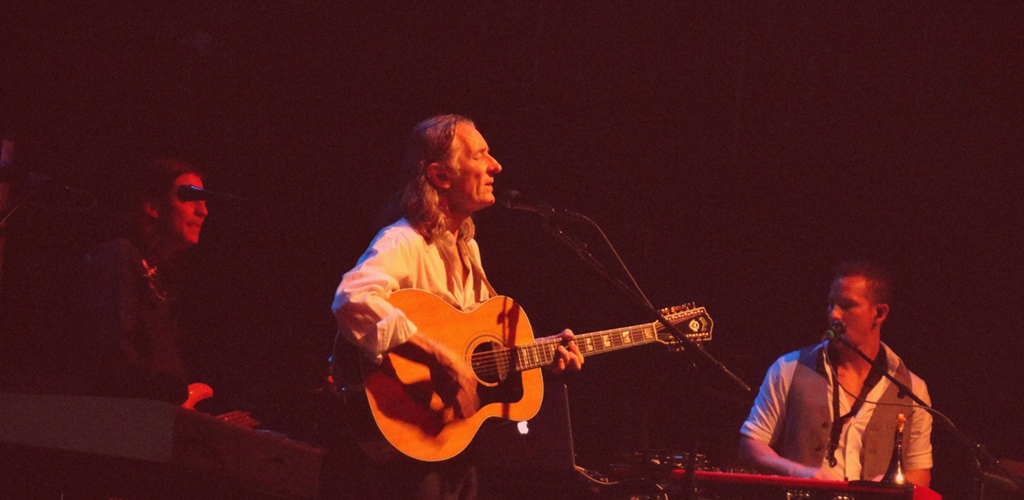
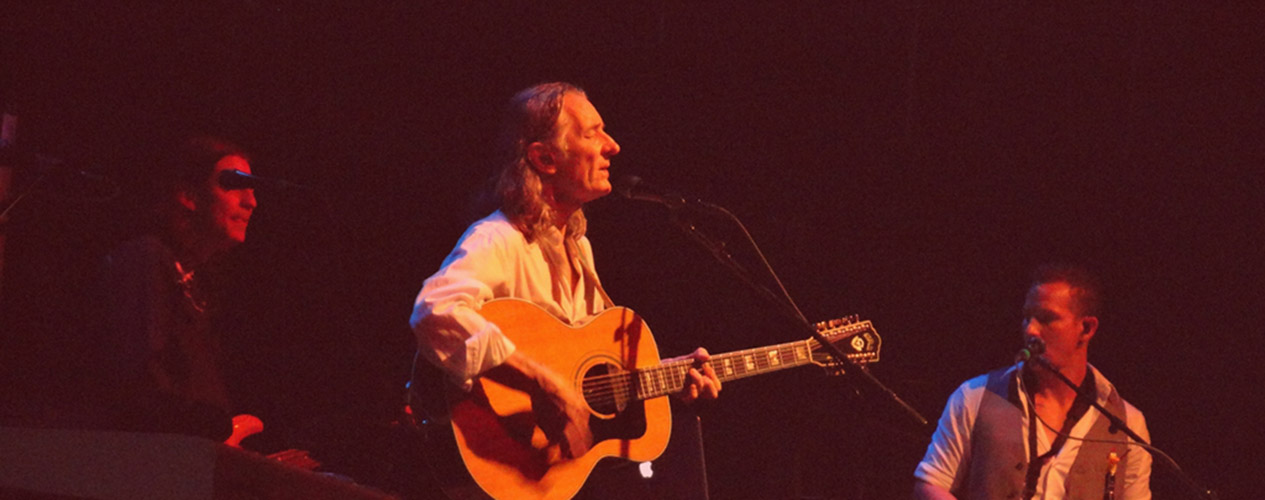
Modification du carousel

diff --git a/content/themes/production2/styles/css/style.css b/content/themes/production2/styles/css/style.css
@@ -8,39 +8,6 @@
   -o-transition: opacity 1s;
   transition: opacity 1s; }
 
-.carousel .image-un {
-  background-repeat: no-repeat;
-  background-position: top center;
-  -webkit-background-size: cover;
-  -moz-background-size: cover;
-  -o-background-size: cover;
-  background-size: cover;
-  overflow: hidden;
-  margin: 0 auto;
-  background-image: url("../../images/roger-Hodgson.jpg"); }
-
-.carousel .image-deux {
-  background-repeat: no-repeat;
-  background-position: top center;
-  -webkit-background-size: cover;
-  -moz-background-size: cover;
-  -o-background-size: cover;
-  background-size: cover;
-  overflow: hidden;
-  margin: 0 auto;
-  background-image: url("../../images/roger-Hodgson.jpg"); }
-
-.carousel .image-trois {
-  background-repeat: no-repeat;
-  background-position: top center;
-  -webkit-background-size: cover;
-  -moz-background-size: cover;
-  -o-background-size: cover;
-  background-size: cover;
-  overflow: hidden;
-  margin: 0 auto;
-  background-image: url("../../images/roger-Hodgson.jpg"); }
-
 #contenu-site .carousel-caption h2 {
   text-transform: uppercase;
   color: #fff;
@@ -60,8 +27,9 @@ button.btn-savoir {
   text-shadow: none !important; }
 
 @media screen and (max-width: 768px) {
-  .carousel .item {
-    height: 300px; }
+  .carousel-inner > .item > a > img, .carousel-inner > .item > img, .img-responsive, .thumbnail a > img, .thumbnail > img {
+    height: 300px !important;
+    max-width: none !important; }
 
   button.btn-savoir {
     margin-bottom: 5px;
@@ -75,17 +43,18 @@ button.btn-savoir {
 
   #contenu-site .carousel-caption h2 {
     margin: 16px 0;
-    font-size: 17px; }
+    font-size: 14px; }
 
   #contenu-site h2.carousel-heure {
     margin-bottom: 20px;
     margin-top: 0; }
 
   #contenu-site .carousel-caption {
-    padding-bottom: 54px; } }
+    padding-bottom: 67px; } }
 @media screen and (min-width: 768px) {
-  .carousel .item {
-    height: 500px; }
+  .carousel-inner > .item > a > img, .carousel-inner > .item > img, .img-responsive, .thumbnail a > img, .thumbnail > img {
+    height: 400px !important;
+    max-width: none !important; }
 
   button.btn-savoir {
     margin-bottom: 10px;
@@ -102,10 +71,11 @@ button.btn-savoir {
     font-size: 24px; }
 
   #contenu-site .carousel-caption {
-    padding-bottom: 110px; } }
+    padding-bottom: 50px; } }
 @media screen and (min-width: 992px) {
-  .carousel .item {
-    height: 570px; }
+  .carousel-inner > .item > a > img, .carousel-inner > .item > img, .img-responsive, .thumbnail a > img, .thumbnail > img {
+    height: 500px !important;
+    max-width: auto !important; }
 
   button.btn-savoir {
     margin-bottom: 75px;
@@ -276,7 +246,8 @@ button {
   #navbar-parenthese .navbar-collapse {
     border-color: #fff; }
   #navbar-parenthese .navbar-form {
-    border: 0 transparent; }
+    border: 0 transparent;
+    margin-bottom: 1px; }
   #navbar-parenthese .navbar-toggle {
     margin-top: 12px;
     margin-bottom: 12px;
@@ -346,12 +317,22 @@ button {
     color: #651720;
     transition: all 0.2s linear; }
 
+/*TeLePHONE */
+#contenu-site p.telephone-header {
+  text-align: left;
+  font-size: 9px;
+  letter-spacing: 2px;
+  font-weight: 400; }
+
 /* Extra small devices (phones, less than 768px) */
 /* Small devices (tablets, 768px and up) */
 @media (min-width: 768px) {
   #logo {
     font-size: 25px;
-    padding: 25px; } }
+    padding: 25px; }
+
+  #contenu-site p.telephone-header {
+    text-align: right; } }
 /* Medium devices (desktops, 992px and up) */
 @media (min-width: 992px) {
   #logo {
@@ -525,6 +506,17 @@ button {
 footer p {
   color: #fff;
   margin: 0; }
+footer address {
+  display: inline-block;
+  margin-bottom: 0; }
+footer div.reseau {
+  display: inline-block;
+  float: right;
+  margin-top: 26px; }
+footer a {
+  color: #fff; }
+  footer a:hover {
+    color: #fff; }
 
 i {
   text-align: center;
@@ -537,15 +529,6 @@ i {
   border-radius: 50%;
   padding-top: 10px;
   font-size: 22px !important; }
-
-footer address {
-  display: inline-block;
-  margin-bottom: 0; }
-
-footer div.reseau {
-  display: inline-block;
-  float: right;
-  margin-top: 26px; }
 
 .footer-bottom {
   background-color: #e82530;

diff --git a/content/themes/production2/styles/sass/_caroussel.sass b/content/themes/production2/styles/sass/_caroussel.sass
@@ -11,17 +11,17 @@
 	transition: opacity 1s
 
 //ajout des 3 images
-.carousel .image-un
-	+background-img
-	background-image: url('../../images/roger-Hodgson.jpg')
+// .carousel .image-un
+// 	+background-img
+// 	background-image: url('../../images/roger-Hodgson.jpg')
 
-.carousel .image-deux
-	+background-img
-	background-image: url('../../images/roger-Hodgson.jpg')
+// .carousel .image-deux
+// 	+background-img
+// 	background-image: url('../../images/roger-Hodgson.jpg')
 
-.carousel .image-trois
-	+background-img
-	background-image: url('../../images/roger-Hodgson.jpg')
+// .carousel .image-trois
+// 	+background-img
+// 	background-image: url('../../images/roger-Hodgson.jpg')
 
 // Mettre le h2 en majuscule
 #contenu-site .carousel-caption h2
@@ -47,8 +47,11 @@ button.btn-savoir
 
 @media screen and (max-width: $screen-sm-min)  // <768
 	.carousel .item
-		height: 300px
-
+		// height: 300px
+	
+	.carousel-inner>.item>a>img, .carousel-inner>.item>img, .img-responsive, .thumbnail a>img, .thumbnail>img
+		height: 300px!important
+		max-width: none!important
 
 	button.btn-savoir
 		margin-bottom: 5px
@@ -62,18 +65,19 @@ button.btn-savoir
 
 	#contenu-site .carousel-caption h2
 		margin: 16px 0
-		font-size: 17px
+		font-size: 14px
 
 	#contenu-site h2.carousel-heure
 		margin-bottom: 20px
 		margin-top: 0
 
 	#contenu-site .carousel-caption
-		padding-bottom: 54px
+		padding-bottom: 67px
 
 @media screen and (min-width: $screen-sm-min) // >768px
-	.carousel .item
-		height: 500px
+	.carousel-inner>.item>a>img, .carousel-inner>.item>img, .img-responsive, .thumbnail a>img, .thumbnail>img
+		height: 400px!important
+		max-width: none!important
 
 	button.btn-savoir
 		margin-bottom: 10px
@@ -90,12 +94,13 @@ button.btn-savoir
 		font-size: 24px
 
 	#contenu-site .carousel-caption
-		padding-bottom: 110px
+		padding-bottom: 50px
 
 @media screen and (min-width: $screen-md-min) // >992px
 
-	.carousel .item
-		height: 570px
+	.carousel-inner>.item>a>img, .carousel-inner>.item>img, .img-responsive, .thumbnail a>img, .thumbnail>img
+		height: 500px!important
+		max-width: auto!important
 
 	button.btn-savoir
 		margin-bottom: 75px

diff --git a/content/themes/production2/include/caroussel.php b/content/themes/production2/include/caroussel.php
@@ -12,30 +12,30 @@
 		<div class="carousel-inner" role="listbox">
 			
 			<div class="item active image-un">
-				<!-- <img src="<?php// echo IMAGES; ?>/roger-Hodgson.jpg" alt="Coldplay"> -->
+				<img src="<?php echo IMAGES; ?>/roger-Hodgson.jpg" alt="Coldplay">
 				<div class="carousel-caption">
 					<h1>Creedence Clearwater</h1>
-					<h2>25 janvier 2015<br>
+					<h2>25 janvier 2015 à
 					<span class="carousel-heure">20:00</span></h2>
 					<button class="btn-savoir">En savoir plus</button>
 				</div>
 			</div>
 
 			<div class="item image-deux">
-				<!-- <img src="<?php// echo IMAGES; ?>/roger-Hodgson.jpg" alt="Roger Waters"> -->
+				<img src="<?php echo IMAGES; ?>/roger-Hodgson.jpg" alt="Roger Waters">
 				<div class="carousel-caption">
 					<h1>Roger Waters</h1>
-					<h2>25 janvier 2015<br>
+					<h2>25 janvier 2015 à
 					<span class="carousel-heure">20:00</span></h2>
 					<button class="btn-savoir">En savoir plus</button>
 				</div>
 			</div>
 			
 			<div class="item image-trois">
-				<!-- <img src="<?php// echo IMAGES; ?>/roger-Hodgson.jpg" alt="The Killers"> -->
+				<img src="<?php echo IMAGES; ?>/roger-Hodgson.jpg" alt="The Killers">
 				<div class="carousel-caption">
 					<h1>The Killers</h1>
-					<h2>25 janvier 2015<br>
+					<h2>25 janvier 2015 à
 					<span class="carousel-heure">20:00</span></h2>
 					<button class="btn-savoir">En savoir plus</button>
 				</div>
